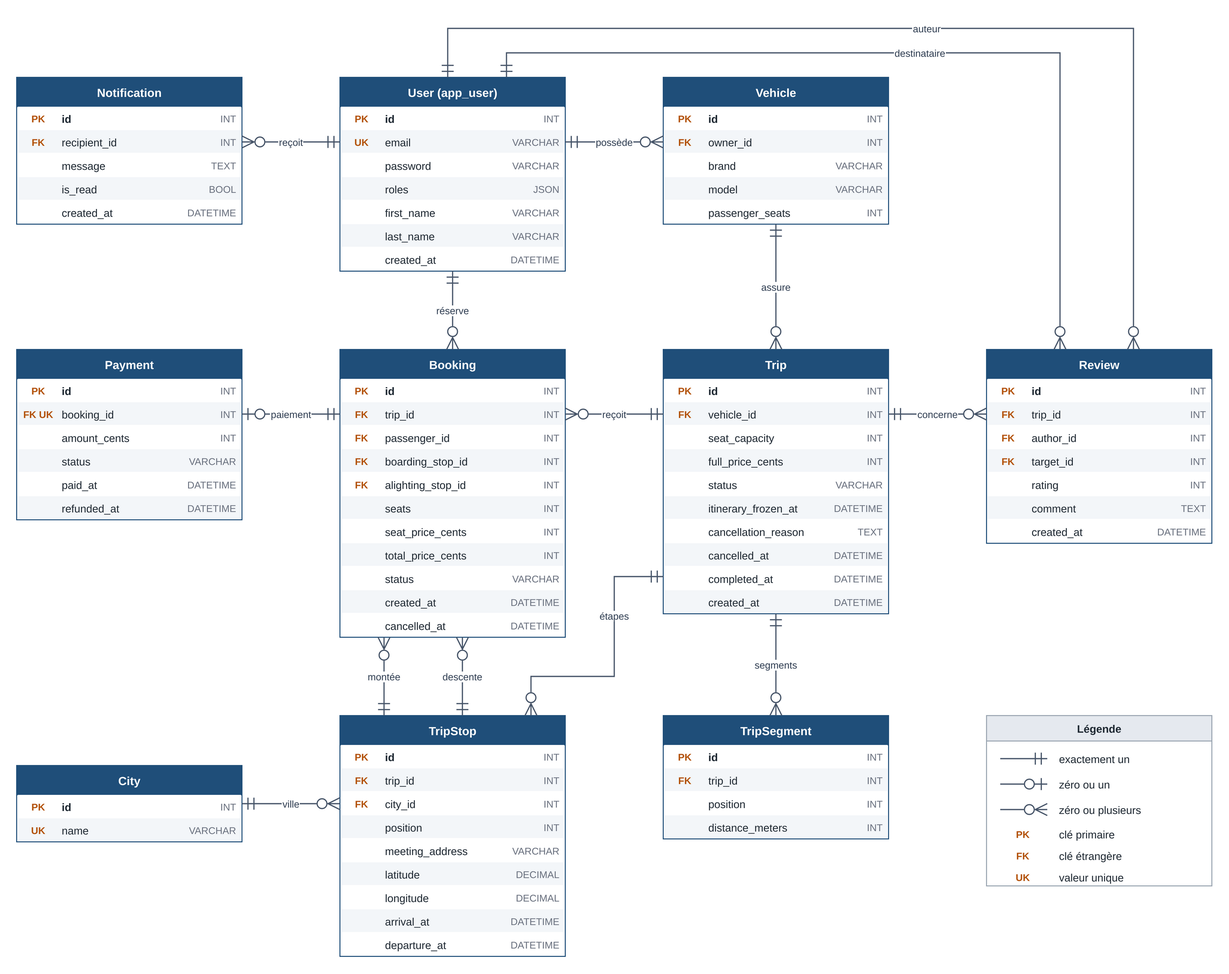
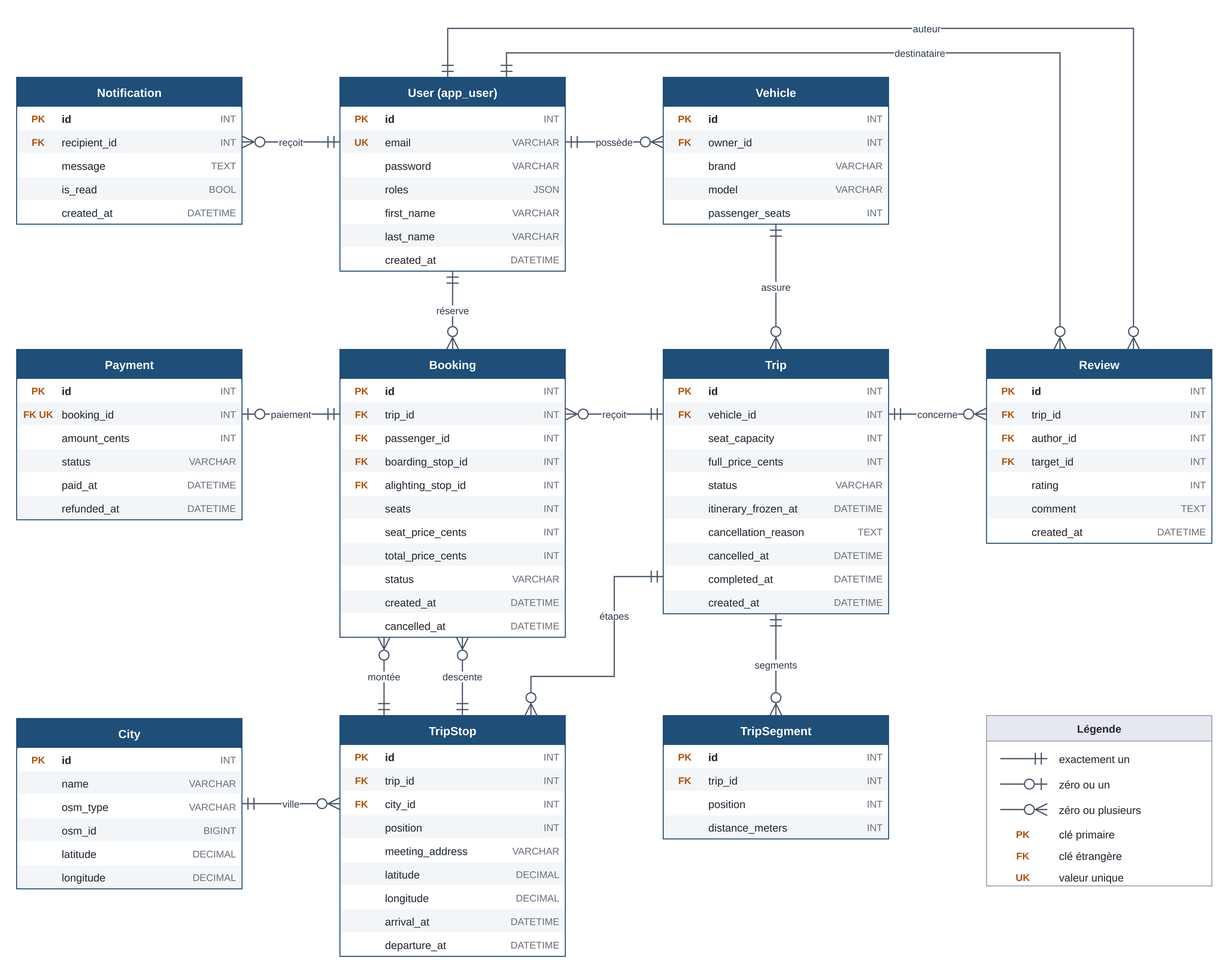
Documentation : décisions, modèle de données et README
Décisions du 12 et du 13 novembre, villes OpenStreetMap dans le modèle et le
diagramme, fonctionnalités à jour dans le README.

Changed region(s): [[0.0, 0.7166, 0.2176, 0.9035]]

diff --git a/docs/DECISIONS.md b/docs/DECISIONS.md
@@ -210,3 +210,133 @@ Les politiques d'usage ont été relues le 2026-11-10 sur leurs pages officielle
 | Droits sur les fichiers | Le conteneur PHP s'exécute avec l'identifiant de l'utilisateur hôte (1000 par défaut, modifiable par `HOST_UID` et `HOST_GID`). | Sous Linux, les fichiers créés appartiennent à l'utilisateur et PHP peut écrire dans `var/`. |
 | Environnement | Mode `dev` ; les classes proxy Doctrine ne sont régénérées que si elles manquent ou si l'entité a changé. | Le mode `dev` donne accès aux données de démonstration ; la régénération à chaque requête provoquait des collisions entre requêtes simultanées. |
 | Vérification | Installation répétée à partir d'une copie exacte du dépôt, dans un projet Docker distinct ; essai prévu sur une machine virtuelle Ubuntu vierge. | Le sujet demande une installation testée sur une machine propre. |
+
+---
+
+## 2026-11-10 — Refonte de l'interface publique
+
+Ces choix portent sur la présentation. Ils ne modifient aucune règle métier : chaque contrôle reste fait par le serveur, et les scripts ne servent qu'à guider la saisie.
+
+| Sujet | Décision | Justification |
+|---|---|---|
+| Système visuel | Une feuille de style organisée en jetons (couleurs, espacements, rayons) et en composants réutilisables ; un seul accent vert, les autres couleurs étant réservées aux états. Polices du système, sans police externe. | Interface cohérente d'une page à l'autre ; aucune requête vers un service tiers pour l'affichage du texte. |
+| Ligne de route | Les étapes d'un trajet sont affichées comme une ligne reliant les arrêts ; sur la page du trajet, la portion choisie par le passager y est mise en valeur. L'occupation de chaque segment est affichée au conducteur siège par siège. | Rend visibles la réservation par portion et la disponibilité par segment, qui sont au cœur du modèle. |
+| Réservation | Récapitulatif avant l'envoi (portion, prix par place, nombre de places, total) et lien « Choisir » sur chaque portion ouverte, qui préremplit le formulaire, y compris sans JavaScript. | Le passager voit le montant exact avant de confirmer. |
+| Choix proposé par défaut | Sans villes indiquées, le formulaire de réservation propose le trajet entier, depuis la première étape dont le départ est encore à venir. Depuis une recherche, il reprend les deux villes recherchées. | Un passager qui ne modifie pas les listes réserve le trajet affiché, pas seulement sa première étape. |
+| Résultats de recherche | Le titre ne compte que les trajets réservables. Les trajets complets entre les deux villes et ceux dont l'utilisateur est le conducteur restent affichés, à part, sous « Complets ou non réservables ». L'accueil ne met en avant qu'un trajet ayant des places du départ à l'arrivée. | « Trouvé » doit vouloir dire réservable ; le conducteur reconnaît son propre trajet. |
+| Prix affichés | Montants affichés au centime, exactement comme ils sont calculés et enregistrés ; seul le prix suggéré au conducteur est arrondi au dirham, comme décidé pour le niveau 4. | L'écran montre le montant réellement payé et remboursé. |
+| Actions irréversibles | Annulation d'une réservation, annulation d'un trajet et clôture d'un trajet passent par une boîte de confirmation qui rappelle leurs conséquences. Sans JavaScript, le formulaire s'envoie directement. | Évite les erreurs de manipulation sans bloquer les navigateurs sans script. |
+| Actions indisponibles | Une action impossible est remplacée par son explication : délai d'annulation de 2 heures dépassé, clôture possible à partir de l'arrivée prévue, délai d'avis de 14 jours dépassé, itinéraire gelé après la première réservation. | L'utilisateur comprend la règle au lieu de constater l'absence d'un bouton. |
+| Formulaire de publication | Étapes numérotées, réordonnables et ajoutées avant l'arrivée ; champs sans objet désactivés (pas d'arrivée au départ, ni de départ ni de distance à l'arrivée) ; récapitulatif avant publication. La saisie manuelle des coordonnées et des distances reste possible. | Rend la saisie d'un itinéraire à étapes plus sûre, sans dépendre des services cartographiques. |
+| Accessibilité | Lien d'accès au contenu, page courante signalée dans la navigation, erreurs reliées à leur champ (`aria-invalid`, `aria-describedby`), zones de clic d'au moins 44 px, navigation au clavier, mouvements réduits si le système le demande. | Utilisable au clavier, au lecteur d'écran et sur téléphone. |
+| Typographie | Apostrophe droite dans tous les textes, comme dans les messages produits par le serveur. | Un seul style sur une même page. |
+| Back-office | EasyAdmin conserve sa mise en page ; il reprend la couleur de l'application et propose un lien de retour vers le site. | L'administration reste distincte de l'espace public tout en partageant son identité. |
+
+---
+
+## 2026-11-11 — Identité visuelle affirmée
+
+Révision de la refonte du 2026-11-10 : l'interface adopte une identité plus marquée. Les règles métier ne changent pas.
+
+| Sujet | Décision | Justification |
+|---|---|---|
+| Typographie (remplace les polices du système) | Plus Jakarta Sans, police libre (licence SIL OFL, fichier `public/fonts/OFL.txt`), hébergée par l'application : aucune requête vers un service de polices à l'exécution. | Une police choisie donne une identité reconnaissable ; l'auto-hébergement garde le fonctionnement hors ligne sous Docker. |
+| Palette | Fond blanc, encre presque noire pour le texte et les boutons principaux, gris de remplissage pour les champs ; le vert reste l'unique accent, réservé aux trajets, aux places et aux sélections. | Contraste fort et lecture rapide ; la couleur garde un sens. |
+| Accueil | Carte du prochain trajet disponible en fond (tuiles OpenStreetMap atténuées en gris, tracé OSRM mis en cache), avec la recherche dans un panneau au premier plan. La carte est décorative et sans interaction ; l'attribution reste affichée. | Montre d'emblée un vrai trajet à étapes. Les tuiles sont chargées par le navigateur, comme sur la page du trajet, dans le respect de la politique d'usage déjà décrite. |
+| Réservation sur mobile | Barre fixe en bas de la page du trajet, avec le total de la sélection et un accès direct au formulaire. | Le montant et l'action restent visibles pendant la lecture de l'itinéraire. |
+
+
+---
+
+## 2026-11-12 — Points de rendez-vous, villes et recherche par rayon
+
+Révision des décisions sur les villes, le géocodage et la recherche. Les règles de réservation, de prix, de gel de l'itinéraire et de surréservation ne changent pas.
+
+| Sujet | Décision | Justification |
+|---|---|---|
+| Point de rendez-vous (remplace « Géocodage ») | Le conducteur choisit n'importe quel lieu (gare, adresse, quartier, commerce) parmi les résultats de Nominatim, ou clique sur la carte (géocodage inverse). Le lieu choisi fournit le nom affiché, l'adresse et les coordonnées de l'étape ; le conducteur peut préciser le libellé. | Un point de rendez-vous est souvent un endroit précis d'une ville, pas la ville elle-même. Seul un lieu connu d'OpenStreetMap peut être choisi. |
+| Ville d'une étape (remplace « Villes ») | Déterminée automatiquement par le serveur : géocodage inverse, au niveau de la localité (ville, commune ou village), des coordonnées de l'étape. La ville est identifiée par son type et son identifiant OpenStreetMap, créée à sa première utilisation puis réutilisée. Un point situé hors de toute localité est refusé. | Deux conducteurs qui choisissent des lieux d'une même ville obtiennent la même ville, quelle que soit l'orthographe : la recherche par ville reste fiable. Le serveur ne se fie pas à une ville envoyée par le navigateur. |
+| Périmètre géographique | Étapes limitées au Maroc (`countrycodes=ma` pour la recherche de lieux, pays vérifié par le serveur sur le géocodage inverse). Noms en français. | Plateforme de covoiturage régional au Maroc. |
+| Service indisponible | Si Nominatim ne répond pas, le conducteur choisit la ville dans la liste des villes déjà connues et saisit l'adresse et les coordonnées à la main, comme auparavant. | La publication reste possible en cas de panne, conformément à la décision du niveau 4. |
+| Villes au back-office | Consultation et correction du nom affiché ; plus de création manuelle. Une ville utilisée par une étape ne peut pas être supprimée. | Les villes proviennent d'OpenStreetMap ; l'identifiant OSM reste la référence. |
+| Recherche (remplace « Recherche » du niveau 3) | Départ et arrivée : une ville ou un lieu précis. Un nom de ville déjà connue est utilisé directement ; sinon le lieu est cherché dans Nominatim à l'envoi du formulaire, jamais pendant la frappe. Un trajet correspond si une étape de montée est dans la ville de départ **ou** à 5 km au plus du point de départ, si une étape de descente est dans la ville d'arrivée **ou** à 5 km au plus du point d'arrivée, si la montée précède la descente et si le départ de la montée a lieu le jour choisi et est encore à venir. | Un passager trouve aussi les trajets qui partent d'une localité voisine (Salé pour Rabat) ; la condition sur la ville couvre les grandes villes dont les étapes sont loin du centre. |
+| Rayon | Fixé à 5 km, distance à vol d'oiseau calculée par MySQL (`ST_Distance_Sphere`) après un filtrage rapide par latitude et longitude. | Proche du point voulu sans mélanger des villes éloignées ; calcul simple et testable. |
+| Choix des étapes dans un résultat | Si plusieurs paires d'étapes d'un trajet conviennent, la paire la plus proche des deux points recherchés est retenue. Résultats triés par distance du point de montée ; la distance est affichée (« point de rendez-vous à 1,8 km »). | Le passager voit d'abord les trajets qui partent le plus près de lui. |
+| Coordonnées d'une ville | Chaque ville conserve les coordonnées de son centre fournies par Nominatim ; elles servent de point de recherche quand le passager saisit une ville. | Permet le rayon de 5 km autour d'une ville saisie par son nom. |
+| Formulaire de publication (complète celui de la refonte) | Assistant pas à pas : véhicule et places, puis une étape par arrêt (lieu par recherche ou clic sur la carte, horaire) ; la carte affiche le tracé OSRM depuis l'arrêt précédent et la distance du tronçon ; ajouter un arrêt ou terminer ; prix suggéré ou prix du conducteur ; récapitulatif ; publication. Sans JavaScript, le formulaire complet reste utilisable. Toutes les règles restent vérifiées par le serveur. | Saisie guidée par la carte, sans dépendre du script pour publier. |
+| Page du trajet | Le tableau « Prix entre les étapes » affiche aussi le point de rendez-vous de chaque étape. | Le passager sait où il monte et descend, pas seulement dans quelle ville. |
+| Données de démonstration | Les villes de démonstration reprennent leurs identifiants et coordonnées OpenStreetMap réels, relevés une fois auprès de Nominatim. | Les villes de démonstration et celles créées par les conducteurs se confondent bien. |
+| Clic sur la carte | Le point cliqué est nommé par un géocodage inverse au niveau de l'adresse ; le repère de l'étape en cours peut être déplacé, ce qui redétermine sa ville. | Le conducteur peut désigner un lieu sans connaître son nom. |
+| Usage déclenché par l'utilisateur (complète le niveau 4) | Nominatim est appelé sur « Rechercher », sur un clic ou un déplacement du repère dans l'assistant, à la publication (ville de chaque étape, souvent déjà en cache) et à l'envoi d'une recherche passager dont le texte n'est pas une ville connue. Jamais pendant la frappe. | Conforme à la politique d'usage : pas d'autocomplétion ; le cache et la liste des villes connues limitent les requêtes. |
+| Données transmises (remplace « Données personnelles » du niveau 4) | Seuls le texte saisi dans la recherche de lieu et les coordonnées choisies sont transmis à Nominatim, jamais l'identité du conducteur ou du passager. Le formulaire rappelle de choisir un lieu public. | Limite les données personnelles envoyées à un service tiers. |
+| Recherche passager avec service partiel | Si le lieu est trouvé mais que sa ville ne peut pas être déterminée (service lent ou indisponible), la recherche se fait dans le rayon de 5 km seulement. | Le passager obtient des résultats plutôt qu'une erreur. |
+| Délai d'attente de Nominatim | 10 secondes. | Le serveur public répond parfois en plusieurs secondes ; 5 secondes provoquaient de fausses indisponibilités. |
+| Modification d'un trajet au back-office | L'administrateur choisit toujours la ville dans la liste ; elle n'est pas redéterminée d'après les coordonnées. | Le back-office sert à corriger des données, sans dépendre d'un service externe. |
+
+---
+
+## 2026-11-12 — Revue de l'interface
+
+Revue des écrans au regard de ce que permet le serveur. Les règles métier ne changent pas ; ces choix rendent visibles des données et des opérations qui existaient déjà.
+
+| Sujet | Décision | Justification |
+|---|---|---|
+| Réservation existante | La page d'un trajet sur lequel le passager a déjà une réservation confirmée affiche cette réservation à la place du formulaire. | Une seule réservation active par passager et par trajet : le formulaire aurait été refusé à l'envoi. |
+| Page d'une réservation | Chaque réservation a sa page, visible de son seul passager : étapes, horaires, conducteur, montant, dates du paiement simulé et du remboursement, annulation et avis. Après une réservation, le passager y arrive directement. | Les données existaient (dates de paiement, de remboursement, d'annulation) sans être affichées ; la page sert de confirmation. |
+| Places et prix modifiés par le conducteur | Depuis son espace, le conducteur modifie les places proposées et le prix du trajet entier, tant que le trajet est publié et n'est pas parti. Mêmes règles qu'au back-office, sous le verrou du trajet : pas moins que les places déjà occupées, pas plus que les places du véhicule ; le nouveau prix ne concerne que les réservations suivantes. | Ces modifications sont permises par les règles décidées le 2026-11-09 mais n'étaient accessibles qu'à l'administrateur. Après le départ, les modifier n'aurait plus de sens. |
+| Mon compte | Page réservée à l'utilisateur connecté : nom complet, adresse e-mail, date d'inscription et raccourcis. L'adresse de connexion apparaît aussi dans le menu du compte. | L'utilisateur voit avec quel compte il est connecté ; ces informations restent invisibles des autres membres. |
+| Distance affichée dans les résultats | La distance au point de départ n'est affichée que si l'étape de montée est hors de la ville recherchée, ou si le passager a cherché un lieu précis. | Pour une recherche « Agadir », une gare d'Agadir n'est pas « à 2,7 km d'Agadir ». |
+| Prix entre les étapes | Les trajets encore réservables sont listés ; les trajets complets ou déjà partis sont regroupés dans une section repliable. | Le tableau montrait surtout des lignes « Complet ». |
+| Page du trajet vue par son conducteur | Liste des passagers et accès direct à la gestion du trajet. | Le conducteur n'avait qu'un message « Vous êtes le conducteur ». |
+
+---
+
+## 2026-11-13 — Identité « Escale »
+
+L'interface publique et le back-office adoptent l'identité « Escale ». Elle remplace la typographie et la palette de l'entrée du 2026-11-11 ; les autres décisions d'interface restent valables.
+
+| Sujet | Décision | Justification |
+|---|---|---|
+| Palette (remplace « Palette » du 2026-11-11) | Aubergine pour l'en-tête, le texte et les actions principales, citron pour la sélection et les mises en avant, fonds ivoire et lilas. Les couleurs sont définies une seule fois dans `public/css/escale-tokens.css` et partagées avec le back-office. | Une identité chaleureuse et reconnaissable, commune à l'espace public et à l'administration. |
+| Typographie (remplace « Typographie » du 2026-11-11) | Chivo pour les titres et les prix, Rethink Sans pour le texte de l'interface. Polices libres (licence SIL OFL, fichiers `public/fonts/OFL-Chivo.txt` et `public/fonts/OFL-RethinkSans.txt`), hébergées par l'application. La police précédente, devenue inutile, est retirée. | Des titres affirmés et un texte lisible, sans requête vers un service de polices. |
+| Nom du produit | Le nom « Covoiturage régional » est affiché à côté du logo dans l'en-tête, sur ordinateur comme sur téléphone. | Un visiteur doit savoir sur quel site il se trouve sans descendre jusqu'au pied de page. |
+| Vocabulaire | Les textes affichés parlent de « trajet » et d'« étapes », jamais de « portion » ou de « segment », réservés au code et à la documentation. | Ce sont des mots de modélisation, pas ceux d'un passager. |
+| Typographie des textes (rappel) | L'apostrophe droite reste la règle dans tous les textes affichés. | Un seul style sur une même page, comme dans les messages produits par le serveur. |
+
+---
+
+## 2026-11-13 — Assistant de publication refait sur le modèle des plateformes existantes
+
+Comparaison avec les parcours de publication décrits par les centres d'aide de BlaBlaCar et de Poparide : le trajet est demandé d'abord, avec une seule date et une seule heure de départ, et les arrêts sont proposés le long de la route. Les règles de l'itinéraire, du prix et du gel ne changent pas : l'assistant remplit le formulaire complet, que le serveur valide comme avant.
+
+| Sujet | Décision | Justification |
+|---|---|---|
+| Ordre des étapes (complète « Formulaire de publication » du 2026-11-12) | Trajet (départ, arrivée, date, heure de départ), puis arrêts, véhicule et places, prix, récapitulatif. | Le conducteur commence par ce qu'il sait déjà : d'où, où et quand. |
+| Horaires | Le conducteur saisit une seule heure, celle du départ. Les heures d'arrivée sont calculées d'après la durée de conduite donnée par OSRM, arrondie à 5 minutes, avec un arrêt de 10 minutes à chaque étape intermédiaire. Chaque heure reste modifiable ; une heure modifiée est conservée. | Saisir deux dates et heures par étape était la principale difficulté. Les heures restent celles du conducteur, et le serveur vérifie toujours leur ordre. |
+| Arrêts proposés | Les villes déjà connues dont le centre est à 10 km au plus du tracé, hors départ et arrivée, sont proposées à cocher, dans l'ordre de la route. Calcul local sur les centres des villes, sans appel à Nominatim. Un autre arrêt reste possible par recherche ou clic sur la carte ; il est rangé à sa place sur la route. | Proposer plutôt que faire construire l'itinéraire arrêt par arrêt, sans requête supplémentaire vers un service externe. |
+| Point de rendez-vous d'une ville proposée | Une ville cochée devient un arrêt au centre-ville (« Centre-ville, Meknès »), que le conducteur peut préciser par recherche ou clic sur la carte. La ville de l'étape est toujours redéterminée par le serveur. | Ajout en un clic ; le libellé indique clairement qu'il s'agit du centre. |
+| Un seul champ par lieu, suggestions pendant la frappe | Le lieu choisi fournit le libellé du point de rendez-vous. Pendant la frappe (à partir de 2 caractères), les suggestions viennent uniquement de la base de l'application : villes connues et points de rendez-vous déjà utilisés par des trajets, comparés sans accents ni majuscules. Une dernière ligne « Chercher … sur la carte » interroge Nominatim, comme le bouton « Rechercher » : seulement sur demande du conducteur. Une ville choisie telle quelle devient un arrêt « Centre-ville », à préciser. | La politique d'usage de Nominatim interdit l'autocomplétion (« Auto-complete search […] you must not implement such a service on the client side »). Les suggestions locales donnent des résultats immédiats sans aucune requête externe ; le service Photon, conçu pour la saisie au fil de l'eau, a été écarté car il ajouterait un service tiers et remplacerait Nominatim, demandé par le sujet. |
+| Prix | Prix conseillé proposé par défaut, ajusté par pas de 5 MAD avec − et +, ou saisi. Aperçu du prix entre chaque paire d'étapes consécutives, calculé avec la même formule et le même arrondi que le serveur. Le prix reste unique pour le trajet entier. | Le conducteur voit ce que paieront les passagers ; la règle du prix proportionnel ne change pas. |
+| Saisie manuelle | Coordonnées, ville et distances ne sont plus visibles dans l'assistant. Le formulaire complet s'affiche si la carte ou un service ne répond pas, ou si le serveur renvoie des erreurs à corriger. | Ces champs techniques ne servent qu'en secours. |
+| Trajet retour | Depuis la page de son trajet, le conducteur ouvre l'assistant prérempli avec les étapes dans l'ordre inverse, les mêmes distances, le même véhicule, les mêmes places et le même prix ; il choisit la date et l'heure. Réservé au conducteur du trajet d'origine. | Les trajets se font souvent en aller-retour : on évite de tout ressaisir. |
+
+
+---
+
+## 2026-11-13 — Prix affichés sur l'itinéraire
+
+| Sujet | Décision | Justification |
+|---|---|---|
+| Prix entre les étapes (remplace la carte séparée du 2026-11-12) | La page du trajet n'a plus de carte « Prix entre les étapes ». Dans l'itinéraire, chaque étape située après l'étape de montée choisie affiche le prix par place depuis cette montée et les places libres, avec « Descendre ici » ; les étapes situées avant proposent « Monter ici ». Ces actions sont de simples liens qui préremplissent la réservation, mis à jour sans rechargement quand JavaScript est disponible. La grille complète de toutes les paires d'étapes reste disponible, repliée sous l'itinéraire. Rien n'est proposé au conducteur ni au passager qui a déjà réservé ce trajet. | Le passager lit le prix là où il lit la route, sans chercher sa ligne dans une grille ; le choix des étapes se fait à un seul endroit. |
+
+---
+
+## 2026-11-13 — Notifications des conducteurs et aperçu sous la cloche
+
+| Sujet | Décision | Justification |
+|---|---|---|
+| Notifications (complète « Notifications » du 2026-11-09) | Le conducteur reçoit une notification dans l'application à chaque réservation sur son trajet (passager, nombre de places, étapes, date du trajet), et quand un passager annule sa réservation (les places redeviennent disponibles). Chaque notification se rapporte à la réservation concernée et est datée de l'événement. Toujours sans e-mail. | Le conducteur apprend qu'une place est prise ou libérée sans consulter son espace ; la date reste juste pour les données de démonstration. |
+| Ouverture d'une notification | Une notification ouverte est marquée comme lue et mène à ce qu'elle concerne : la réservation pour le passager, le trajet dans l'espace conducteur pour le conducteur. Seul son destinataire peut l'ouvrir. La page de toutes les notifications reste disponible et les marque toutes comme lues. | Chaque notification conduit directement à l'action utile. |
+| Aperçu sous la cloche | Un clic sur la cloche ouvre les 5 dernières notifications, lues ou non, sans les marquer comme lues, avec « Voir toutes les notifications ». Sur téléphone, l'aperçu s'ouvre dans le menu, sous la cloche. Sans JavaScript, la cloche mène à la page des notifications. L'aperçu est demandé dès que le pointeur ou le clavier atteint la cloche. | Consultation rapide sans quitter la page, même sans nouveauté ; l'aperçu s'affiche sans attente perceptible. |
+| Fuseau horaire affiché | Les libellés des heures (formulaires de trajet, back-office compris, fiche du trajet, réservation, pied de page) indiquent le nom du fuseau, `Africa/Casablanca`, au lieu de « heure du Maroc ». | Nom exact et sans ambiguïté, valable toute l'année : un décalage fixe (UTC+1) serait faux pendant le ramadan, quand le Maroc passe à UTC+0. |
+| Version des fichiers publics | Les adresses des styles, scripts et images portent la date de modification du fichier (`?v=…`). | Après une mise à jour, le navigateur charge la nouvelle version au lieu d'une copie gardée en cache. |

diff --git a/docs/MODELE.md b/docs/MODELE.md
@@ -18,7 +18,7 @@ Chaque entité correspond à une table au nom en `snake_case`, à l'exception de
 |---|---|---|
 | Comptes | `User` | Compte unique, avec des rôles. Une même personne peut être conducteur et passager. |
 | | `Vehicle` | Véhicule d'un conducteur et nombre de places proposables, hors conducteur. |
-| Offre | `City` | Ville de la liste gérée depuis le back-office ; sert à la recherche. |
+| Offre | `City` | Localité (ville, commune ou village) identifiée par son objet OpenStreetMap, avec les coordonnées de son centre ; créée à la première publication d'une étape qui s'y trouve ; sert à la recherche. |
 | | `Trip` | Trajet publié : véhicule, capacité, prix complet, état et gel de l'itinéraire. |
 | | `TripStop` | Étape : ville, rang, point de rendez-vous, coordonnées, horaires. |
 | | `TripSegment` | Tronçon entre deux étapes consécutives, avec sa distance en mètres. |
@@ -68,25 +68,29 @@ Aucune clé étrangère ne supprime en cascade : une ligne référencée par une
 
 Les coordonnées sont en `DECIMAL(9,6)`, ce qui couvre toute la plage de longitude avec une précision d'environ 10 cm.
 
+La ville d'une étape est déterminée d'après ses coordonnées : la recherche compare d'abord la ville, puis la distance au point recherché (5 km au plus, calculée par MySQL avec `ST_Distance_Sphere`). Un index sur la latitude et la longitude des étapes écarte rapidement les étapes lointaines. Deux localités peuvent porter le même nom : l'unicité porte sur l'objet OpenStreetMap, pas sur le nom.
+
 Les dates sont stockées et traitées en UTC, ce qui rend les comparaisons insensibles aux changements d'heure du Maroc. La première étape n'a pas d'heure d'arrivée et la dernière n'a pas d'heure de départ.
 
 ## Contraintes en base
 
-Les colonnes facultatives sont les dates d'annulation, de fin, de remboursement et de gel, `arrival_at`, `departure_at`, `trip.cancellation_reason` et `review.comment` ; toutes les autres sont `NOT NULL`.
+Les colonnes facultatives sont les dates d'annulation, de fin, de remboursement et de gel, `arrival_at`, `departure_at`, `trip.cancellation_reason`, `review.comment` et, pour une ville saisie sans OpenStreetMap, son objet OSM et son centre ; toutes les autres sont `NOT NULL`.
 
 Les contraintes d'unicité portent sur les colonnes marquées `UK` et sur ces combinaisons :
 
 | Table | Colonnes uniques ensemble |
 |---|---|
+| `city` | `osm_type`, `osm_id` |
 | `trip_stop` | `trip_id`, `position` |
 | `trip_segment` | `trip_id`, `position` |
 | `review` | `trip_id`, `author_id`, `target_id` |
 
-Les contrôles `CHECK` portent uniquement sur la validité d'une ligne. Ils ne sont pas générés à partir du mapping Doctrine : ils sont écrits à la main dans la migration initiale.
+Les contrôles `CHECK` portent uniquement sur la validité d'une ligne. Ils ne sont pas générés à partir du mapping Doctrine : ils sont écrits à la main dans les migrations.
 
 | Table | Contrôle |
 |---|---|
 | `vehicle` | `passenger_seats > 0` |
+| `city` | `osm_type` parmi `node`, `way`, `relation` ; `osm_type` et `osm_id` renseignés ensemble ; latitude et longitude du centre renseignées ensemble et dans les plages valides |
 | `trip` | `seat_capacity > 0`, `full_price_cents > 0` |
 | `trip_stop` | `position >= 0` ; latitude entre −90 et 90 ; longitude entre −180 et 180 ; au moins un horaire renseigné ; départ postérieur ou égal à l'arrivée |
 | `trip_segment` | `position >= 0`, `distance_meters > 0` |
